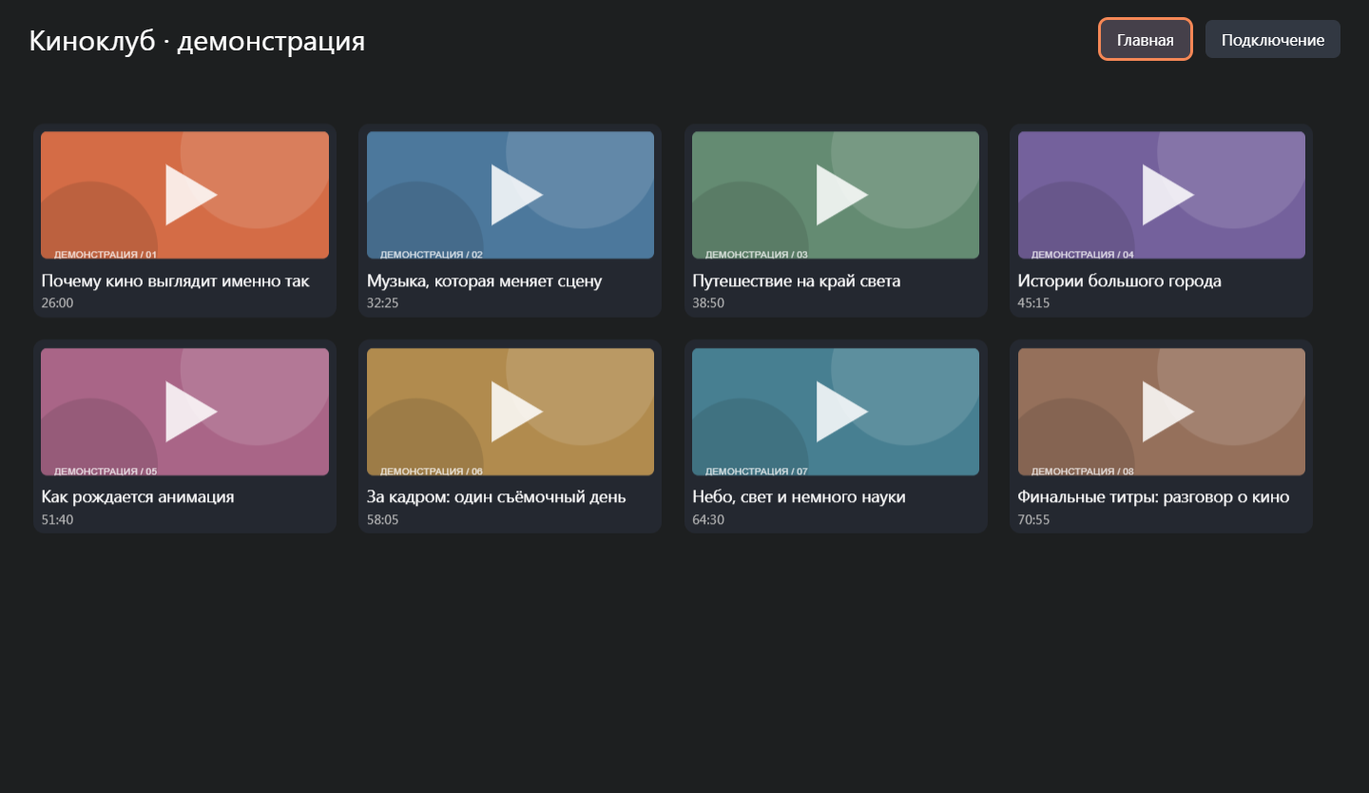
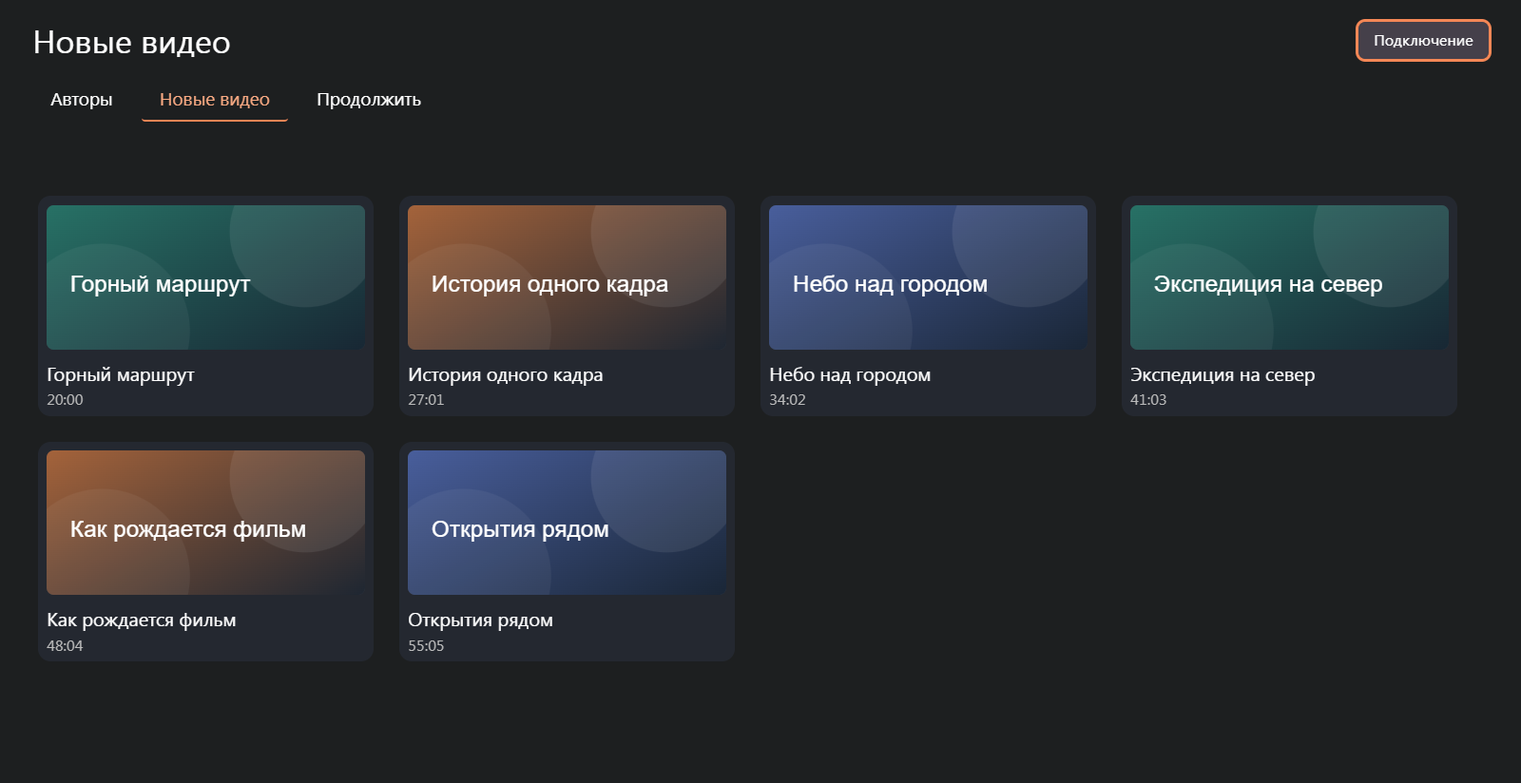
Исправлены авторы, обновлена навигация и добавлена поддержка нескольких ТВ

diff --git a/plugin/boosty.js b/plugin/boosty.js
@@ -67,7 +67,7 @@
             return request(root.XMLHttpRequest, base, L.Storage.get(tokenKey, ''), method, path, body, yes,
                 no || function (code) { L.Noty.show(message(code)); }, extra);
         }
-        function push(action, title, author) { L.Activity.push({component: 'boosty', action: action, title: title || 'Boosty', author: author}); }
+        function push(action, title, author, profile) { L.Activity.push({component: 'boosty', action: action, title: title || 'Boosty', author: author, profile: profile}); }
         function clock(seconds) {
             seconds = Math.max(0, Math.floor(Number(seconds) || 0));
             return Math.floor(seconds / 60) + ':' + ('0' + seconds % 60).slice(-2);
@@ -139,12 +139,15 @@
                 onBack: function () { L.Select.hide(); back(); }});
         }
         function Component(object) {
+            if (!object.action || object.action === 'home') { object.action = 'authors'; object.title = 'Авторы'; }
             var self = this, dead = false, requests = [], poll = null, last = null, next = null, loading = false, count = 0;
             var pageCursor = null, previous = [];
             var html = $('<div class="boosty-page"></div>'), head = $('<div class="boosty-head"></div>');
+            var tabs = $('<div class="boosty-tabs"></div>');
             var scroll = new L.Scroll({mask: true, over: true}), grid = $('<div class="boosty-grid"></div>');
+            var body = $('<div class="boosty-body"></div>');
             var note = $('<div class="boosty-note"></div>');
-            html.append(head).append(note).append(scroll.render()); scroll.append(grid); scroll.minus(head);
+            html.append(head).append(note).append(scroll.render()); scroll.append(body); body.append(grid); scroll.minus(head);
             function button(title, action, extra) {
                 var el = $('<div class="selector boosty-button"></div>').text(title);
                 if (extra) el.addClass(extra);
@@ -172,8 +175,9 @@
                 }));
                 restore();
             }
-            function card(title, subtitle, image, action) {
+            function card(title, subtitle, image, action, author) {
                 var el = $('<div class="selector boosty-card"></div>');
+                if (author) el.addClass('boosty-author');
                 var picture = $('<div class="boosty-picture"></div>').append($('<span></span>').text('B'));
                 if (image) {
                     var img = $('<img loading="lazy" alt="">').attr('src', image);
@@ -187,7 +191,7 @@
             function renderItems(data) {
                 data.items.forEach(function (item) {
                     if (object.action === 'authors') {
-                        card(item.title, 'Открыть видео автора', item.image_url, function () { push('posts', item.title, item.author_id); });
+                        card(item.title, item.description !== item.title ? item.description : '', item.image_url, function () { push('posts', item.title, item.author_id, item); }, true);
                     } else if (object.action === 'continue') {
                         card(item.title, 'Продолжить с ' + clock(item.position_seconds), item.image_url, function () { choose(item, restore); });
                     } else {
@@ -229,25 +233,41 @@
                 });
             }
             this.create = function () {
-                head.append($('<div class="boosty-heading"></div>').text(object.title || 'Boosty'));
-                head.append(button('Главная', function () { push('home'); }));
-                head.append(button('Подключение', function () { push('pair', 'Подключение Boosty'); }));
+                var top = $('<div class="boosty-top"></div>');
+                top.append($('<div class="boosty-heading"></div>').text(object.title || 'Boosty'));
+                top.append(button('Подключение', function () { push('pair', 'Подключение Boosty'); }, 'boosty-settings'));
+                [['authors', 'Авторы'], ['feed', 'Новые видео'], ['continue', 'Продолжить']].forEach(function (tab) {
+                    var selected = object.action === tab[0] || (object.action === 'posts' && tab[0] === 'authors');
+                    tabs.append(button(tab[1], function () { if (object.action !== tab[0]) push(tab[0], tab[1]); }, selected ? 'boosty-tab-active' : 'boosty-tab'));
+                });
+                head.append(top).append(tabs);
+                if (object.action === 'posts' && object.profile) {
+                    var profile = object.profile, cover = $('<div class="boosty-cover"></div>');
+                    if (profile.cover_url) {
+                        var coverImage = $('<img alt="">').attr('src', profile.cover_url);
+                        coverImage.on('error', function () { coverImage.remove(); }); cover.append(coverImage);
+                    }
+                    var caption = $('<div class="boosty-cover-caption"></div>');
+                    caption.append($('<div class="boosty-heading"></div>').text(profile.title));
+                    if (profile.description && profile.description !== profile.title) caption.append($('<div></div>').text(profile.description));
+                    cover.append(caption); body.prepend(cover);
+                }
                 if (!L.Storage.get(tokenKey, '') && object.action !== 'pair') {
                     note.text('Один раз привяжите телевизор. Вход в Boosty выполняется на компьютере.');
                     grid.append(button('Привязать телевизор', function () { push('pair', 'Подключение Boosty'); }));
                 } else if (object.action === 'pair') pair();
-                else if (!object.action || object.action === 'home') {
-                    [['continue', 'Продолжить'], ['feed', 'Новые видео'], ['authors', 'Авторы']].forEach(function (tab) {
-                        card(tab[1], '', null, function () { push(tab[0], tab[1]); });
-                    });
-                } else load();
+                else load();
                 return html;
             };
             this.start = function () {
                 if (dead) return;
                 L.Controller.add('content', {
                     toggle: function () { L.Controller.collectionSet(html); L.Controller.collectionFocus(last || grid.find('.selector').first(), html); },
-                    up: function () { if (root.Navigator.canmove('up')) root.Navigator.move('up'); else L.Controller.toggle('head'); },
+                    up: function () {
+                        if (root.Navigator.canmove('up')) root.Navigator.move('up');
+                        else if (grid.find('.focus').length) L.Controller.collectionFocus(tabs.find('.selector').first(), html);
+                        else L.Controller.toggle('head');
+                    },
                     down: function () {
                         if (!root.Navigator.canmove('down') && head.find('.focus').length && grid.find('.selector').length) {
                             L.Controller.collectionFocus(grid.find('.selector').first(), html);
@@ -264,7 +284,7 @@
             this.stop = function () {};
             this.destroy = function () { dead = true; clearTimeout(poll); requests.forEach(function (request) { if (request.cancel) request.cancel(); }); scroll.destroy(); html.remove(); };
         }
-        $('<style></style>').text('.boosty-page{height:100%;padding:1.2em 1.8em;box-sizing:border-box}.boosty-head{display:flex;align-items:center;gap:1em;margin-bottom:1em}.boosty-heading{font-size:1.8em;flex:1}.boosty-note{margin:.6em 0;color:#ccc;max-width:55em}.boosty-grid{display:flex;flex-wrap:wrap;gap:1.4em;padding:.6em .3em 4em}.boosty-card{width:calc(25% - 1.4em);min-width:12em;border-radius:.7em;padding:.5em;box-sizing:border-box;background:#242830}.boosty-picture{position:relative;background:#323842;height:8em;border-radius:.4em;overflow:hidden;display:flex;align-items:center;justify-content:center}.boosty-picture span{font-size:3em;color:#ed7447}.boosty-picture img{position:absolute;width:100%;height:100%;object-fit:cover}.boosty-title{margin-top:.6em;font-size:1.05em;line-height:1.3;max-height:3.9em;overflow:hidden}.boosty-subtitle{margin-top:.4em;color:#bbb;font-size:.85em}.boosty-button{padding:.7em 1em;background:#323842;border-radius:.45em}.boosty-page .selector.focus{outline:.2em solid #f48756;background:#45404a}.boosty-code{width:100%;font-size:4em;letter-spacing:.25em;color:#f48756}.boosty-more{width:100%;text-align:center}').appendTo('head');
+        $('<style></style>').text('.boosty-page{height:100%;padding:1.2em 1.8em;box-sizing:border-box}.boosty-head{margin-bottom:1em}.boosty-top{display:flex;align-items:center;gap:1em;margin-bottom:1em}.boosty-tabs{display:flex;gap:.6em;flex-wrap:wrap}.boosty-tabs .boosty-button{background:transparent;border-bottom:.15em solid transparent;border-radius:.2em}.boosty-tabs .boosty-tab-active{border-color:#f48756;color:#f9aa83}.boosty-settings{font-size:.85em}.boosty-card.boosty-author{background:transparent;aspect-ratio:1 / 1;display:flex;flex-direction:column;align-items:center;justify-content:center;text-align:center;padding:.7em}.boosty-author .boosty-picture{width:52%;height:auto;aspect-ratio:1 / 1;border-radius:50%;margin:0 auto .5em;flex-shrink:0;background:transparent}.boosty-author .boosty-title,.boosty-author .boosty-subtitle{text-shadow:0 1px 2px #000,0 0 5px #000}.boosty-author .boosty-subtitle{max-height:2.6em;overflow:hidden}.boosty-cover{position:relative;height:12em;margin:.6em .3em 1em;border-radius:.7em;overflow:hidden;background:#323842}.boosty-cover>img{width:100%;height:100%;object-fit:cover}.boosty-cover-caption{position:absolute;inset:0;display:flex;flex-direction:column;justify-content:flex-end;padding:1.2em;background:linear-gradient(transparent,rgba(0,0,0,.85))}.boosty-cover-caption .boosty-heading{flex:none;margin-bottom:.2em}.boosty-heading{font-size:1.8em;flex:1}.boosty-note{margin:.6em 0;color:#ccc;max-width:55em}.boosty-grid{display:flex;flex-wrap:wrap;gap:1.4em;padding:.6em .3em 4em}.boosty-card{width:calc(25% - 1.4em);min-width:12em;border-radius:.7em;padding:.5em;box-sizing:border-box;background:#242830}.boosty-picture{position:relative;background:#323842;height:8em;border-radius:.4em;overflow:hidden;display:flex;align-items:center;justify-content:center}.boosty-picture span{font-size:3em;color:#ed7447}.boosty-picture img{position:absolute;width:100%;height:100%;object-fit:cover}.boosty-title{margin-top:.6em;font-size:1.05em;line-height:1.3;max-height:3.9em;overflow:hidden}.boosty-subtitle{margin-top:.4em;color:#bbb;font-size:.85em}.boosty-button{padding:.7em 1em;background:#323842;border-radius:.45em}.boosty-page .selector.focus{outline:.2em solid #f48756;background:#45404a}.boosty-page .boosty-author.focus{outline:none;background:transparent}.boosty-author.focus .boosty-picture{box-shadow:0 0 0 .2em #f48756}.boosty-author.focus .boosty-title{color:#ffb38c}.boosty-code{width:100%;font-size:4em;letter-spacing:.25em;color:#f48756}.boosty-more{width:100%;text-align:center}@media(max-width:800px){.boosty-card{width:calc(50% - 1.4em);min-width:0}.boosty-page{padding:1em}.boosty-heading{font-size:1.4em}.boosty-tabs{gap:.2em}}').appendTo('head');
         L.Component.add('boosty', Component);
         var menu = $('<li class="menu__item selector"><div class="menu__ico"><svg viewBox="0 0 24 24"><path fill="currentColor" d="M5 3h8a5 5 0 0 1 3 9 5 5 0 0 1-3 9H5V3zm4 4v3h4a1.5 1.5 0 0 0 0-3H9zm0 7v3h4a1.5 1.5 0 0 0 0-3H9z"/></svg></div><div class="menu__text">Boosty</div></li>');
         menu.on('hover:enter', function () { push('home'); });

diff --git a/server/admin.html b/server/admin.html
@@ -6,7 +6,7 @@
 <p>Вход выполняется на компьютере. Телевизор получает доступ только к каталогу и воспроизведению.</p>
 <section><label for="key">Ключ администратора</label><input id="key" type="password" autocomplete="off" placeholder="Из закрытого файла администратора"><button id="check">Подключиться</button><p id="status" role="status">Ожидание подключения</p></section>
 <section><h2>1. Подключить аккаунт</h2><p>Предпочтительный способ — помощник <code>scripts/login.py</code>: он откроет официальный сайт Boosty. Пароль вводится только там.</p><p>Если агент подготовил файл сессии только для Boosty, выберите его ниже. Он передаётся вашему серверу и не включается в комплект переноса.</p><input id="session" type="file" accept="application/json,.json" aria-label="Файл сессии Boosty"><button id="import">Подключить аккаунт</button></section>
-<section><h2>2. Привязать телевизор</h2><p>Откройте раздел Boosty в Lampa и выберите «Привязать телевизор». Введите показанный код. Новая привязка заменит прежнюю.</p><input id="code" inputmode="numeric" pattern="[0-9]{6}" maxlength="6" aria-label="Шестизначный код ТВ"><button id="approve">Подтвердить</button><p id="pairs"></p></section>
+<section><h2>2. Привязать телевизор</h2><p>Откройте раздел Boosty в Lampa и выберите «Привязать телевизор». Введите показанный код. Новая привязка добавляет устройство. Ранее подключённые устройства сохраняют доступ.</p><input id="code" inputmode="numeric" pattern="[0-9]{6}" maxlength="6" aria-label="Шестизначный код ТВ"><button id="approve">Подтвердить</button><p id="pairs"></p></section>
 <p id="result" role="alert"></p>
 <script>
 'use strict';

diff --git a/tests/test_api.py b/tests/test_api.py
@@ -41,7 +41,8 @@ async def fixture(tmp_path):
                 controls["arrived"].set()
             await controls["release"].wait()
         if request.url.path == "/v1/user/subscriptions":
-            return httpx.Response(200, json={"data": [{"blog": {"blogUrl": "author", "title": "Author"}}], "total": 1})
+            blogs = controls.get("blogs", [{"blogUrl": "author", "title": "Author"}])
+            return httpx.Response(200, json={"data": [{"blog": b} for b in blogs], "total": len(blogs)})
         post = {"id": "post-1", "hasAccess": controls["access"], "title": "Film", "createdAt": 123,
                 "user": {"blogUrl": "author"}, "data": [{"id": "video-1", "type": "ok_video", "complete": True,
                 "title": "Film", "duration": 100, "playerUrls": [{"type": "full_hd", "url": "https://vd1.okcdn.ru/film?signature=private"}]}]}
@@ -117,6 +118,58 @@ async def test_access_checked_at_play_and_no_secrets_returned(fixture):
     controls["access"] = False
     response = await client.post("/boosty/v1/playbacks", json={"author_id": "author", "post_id": "post-1", "video_id": "video-1", "quality": "full_hd"})
     assert response.status_code == 403
+
+
+@pytest.mark.anyio
+async def test_author_identity_and_images_use_owner_fields(fixture):
+    svc, client, admin, controls, device = fixture
+    controls["blogs"] = [
+        {"blogUrl": "creator", "title": "Video essays", "owner": {"name": "Creator name", "avatarUrl": "https://images.boosty.to/avatar.jpg"}, "coverUrl": "https://images.boosty.to/cover.jpg"},
+        {"blogUrl": "legacy", "title": "Legacy", "owner": None},
+        {"blogUrl": "slug-only"},
+    ]
+    items = (await client.get("/boosty/v1/authors")).json()["items"]
+    assert items[0]["title"] == "Creator name"
+    assert items[0]["description"] == "Video essays"
+    for field, source in [("image_url", "avatar.jpg"), ("cover_url", "cover.jpg")]:
+        identifier = items[0][field].rsplit("/", 1)[1]
+        assert svc.images[identifier][0] == "https://images.boosty.to/" + source
+    assert items[1]["title"] == "Legacy" and items[1]["image_url"] is None
+    assert items[2]["title"] == "slug-only"
+
+
+@pytest.mark.anyio
+async def test_multiple_devices_keep_tokens_streams_and_shared_history(fixture):
+    from server.state import State
+    svc, first, admin, controls, device = fixture
+    first_play = await playback(first)
+    pairing = (await first.post("/boosty/v1/pairing", json={})).json()
+    assert (await admin.post("/admin/pairing/approve", json={"code": pairing["code"]})).status_code == 200
+    second_token = (await first.get("/boosty/v1/pairing/" + pairing["id"], headers={"X-Pair-Secret": pairing["secret"]})).json()["token"]
+    assert (await first.get("/boosty/v1/authors")).status_code == 200
+    async with httpx.AsyncClient(transport=first._transport, base_url=first.base_url, headers={"Authorization": "Bearer " + second_token}) as second:
+        second_play = await playback(second)
+        for player, item in [(first, first_play), (second, second_play)]:
+            response = await player.get(item["url"], headers={"Range": "bytes=100-199"})
+            assert response.status_code == 206 and len(response.content) == 100
+        assert (await second.delete("/boosty/v1/playbacks/" + first_play["playback_id"])).status_code == 200
+        assert (await first.head(first_play["url"])).status_code == 200
+        await playback(second)
+        assert (await second.head(second_play["url"])).status_code == 404
+        assert (await first.head(first_play["url"])).status_code == 200
+        progress = "/boosty/v1/progress/" + first_play["key"]
+        assert (await first.put(progress, json={"position_seconds": 42, "duration_seconds": 100})).status_code == 200
+        assert (await second.get("/boosty/v1/continue")).json()["items"][0]["position_seconds"] == 42
+        reopened = State(svc.settings.state_dir)
+        try:
+            assert reopened.device(first.headers["authorization"][7:]) == device
+            assert reopened.device(second_token) != device
+        finally:
+            reopened.close()
+        replacement = {"accessToken": "owner-b-access", "refreshToken": "refresh-b", "clientId": "client", "expiresAt": int((time.time() + 86400) * 1000)}
+        assert (await admin.post("/admin/session", json=replacement)).status_code == 200
+        assert (await first.get("/boosty/v1/authors")).status_code == 401
+        assert (await second.get("/boosty/v1/authors")).status_code == 401
 
 
 @pytest.mark.anyio

diff --git a/server/service.py b/server/service.py
@@ -87,8 +87,6 @@ class Service:
         if not matches or matches[0]["token"]:
             raise Problem("PAIRING_EXPIRED", 404)
         _, token = self.state.new_device()
-        self.playbacks.clear()
-        self.opened.clear()
         matches[0]["token"] = token
 
     def claim(self, identifier, secret):
@@ -164,8 +162,11 @@ class Service:
                 for row in result.get("data", []):
                     blog = row.get("blog", {})
                     if blog.get("blogUrl"):
-                        items.append({"author_id": blog["blogUrl"], "title": str(blog.get("title") or blog["blogUrl"])[:500],
-                                      "image_url": self.image_url(blog.get("avatarUrl"))})
+                        owner = blog.get("owner") or {}
+                        items.append({"author_id": blog["blogUrl"], "title": str(owner.get("name") or blog.get("title") or blog["blogUrl"])[:500],
+                                      "description": str(blog.get("title") or "")[:500],
+                                      "image_url": self.image_url(owner.get("avatarUrl")),
+                                      "cover_url": self.image_url(blog.get("coverUrl"))})
                 consumed = int(offset or 0) + len(result.get("data", []))
                 next_offset = consumed if result.get("data") and consumed < result.get("total", 0) else None
             else:
@@ -213,7 +214,8 @@ class Service:
         self.check_device(current)
         device = current[0]
         now = time.time()
-        self.playbacks.clear()
+        self.playbacks = {key: value for key, value in self.playbacks.items()
+                          if value["device"] != device and now - value["used"] <= 3600 and now - value["created"] <= 43200}
         identifier = secrets.token_urlsafe(32)
         self.playbacks[identifier] = {"device": device, "source": source, "video": video, "quality": quality,
             "created": now, "used": now, "identity": None, "lock": asyncio.Lock(), "generation": current[1]}

diff --git a/server/state.py b/server/state.py
@@ -88,7 +88,6 @@ class State:
         token = secrets.token_urlsafe(32)
         device = secrets.token_hex(8)
         with self.db:
-            self.db.execute("DELETE FROM devices")
             self.db.execute("INSERT INTO devices VALUES (?,?)", (device, hashlib.sha256(token.encode()).hexdigest()))
         return device, token
 

diff --git a/docs/ACCEPTANCE.md b/docs/ACCEPTANCE.md
@@ -29,3 +29,13 @@
 Документ обновляется по фактам проверки. Нельзя помечать пункт пройденным только по наличию кода, скриншота или HTTP 200.
 
 При установке исправлено описание tmpfs в Compose: строка с запятыми заключена в кавычки. CI теперь проверяет не только сборку, но и настоящий запуск Compose до healthy. На исходном ТВ версии, каталоги данных и статус установки пяти нужных приложений сохранены; Home и системные службы не менялись.
+
+## Итерация авторов и нескольких устройств — 25.10.2026
+
+- 21 серверный тест и 14 JavaScript-тестов пройдены. Новые проверки сначала воспроизвели прежние ошибки.
+- На реальном API подтверждены owner.name, owner.avatarUrl и coverUrl; в локальной браузерной Lampa загрузились три аватара, имена, описания и обложка автора.
+- Убраны промежуточные карточки разделов. Проверены вкладки и движение клавишами между сеткой и вкладками. Квадратные прозрачные ячейки измерены при ширине 1600 и 720 пикселей, горизонтального переполнения нет.
+- Два независимых клиента локального сервера привязаны одновременно; оба сохранили доступ к каталогу и своим реальным MP4-ссылкам, оба Range-запроса вернули 206 и ожидаемые 100 байт. Временные клиенты удалены после проверки; рабочая привязка ТВ не использовалась.
+- Автотест проверяет сохранение ключей после повторного открытия SQLite, отсутствие остановки чужого потока, независимый повторный запуск, общую историю и отзыв обоих устройств при смене аккаунта.
+- Пять критиков и арбитр: одна находка после дедупликации — устаревшее обещание отзыва старого ТВ. Исправление одобрено владельцем, подсказка и инструкция согласованы с новым поведением; security и silent-failure подтвердили закрытие. Дополнительная проверка регрессий перехода вверх выполнена.
+- По прямому указанию владельца ТВ в этой итерации не управлялся. Одновременный длительный просмотр на нескольких физических ТВ не проверялся; история одного ролика общая, последнее обновление побеждает.

diff --git a/docs/superpowers/plans/2026-10-25-authors-multiple-devices.md b/docs/superpowers/plans/2026-10-25-authors-multiple-devices.md
@@ -1,0 +1,9 @@
+# Авторы, навигация и несколько телевизоров
+
+Согласовано владельцем 25.10.2026. Проверки интерфейса только в локальном браузере, без управления ТВ и без отзыва действующей привязки.
+
+1. `server/service.py`, `tests/test_api.py`: имя автора из `blog.owner.name`, аватар из `blog.owner.avatarUrl`, описание из `blog.title`, обложка из `blog.coverUrl`. Сохранить fallback для неполных ответов и существующий защищённый прокси изображений. Проверить реальную форму искусственным ответом без личных данных.
+2. `server/state.py`, `server/service.py`, `tests/test_api.py`: новая привязка добавляет устройство; запуск заменяет только просмотр того же устройства, очищая истёкшие ссылки. Проверить два ключа и потока, сохранение после открытия БД заново, отзыв всех устройств при смене владельца. История общая: последнее обновление позиции побеждает. Схема SQLite не меняется.
+3. `plugin/boosty.js`, `tests/plugin.test.cjs`, `tests/lampa-fixture.cjs`: вместо меню-карточек вкладки Авторы / Новые видео / Продолжить; начальный экран Авторы, подключение отдельной кнопкой. Карточки авторов с круглыми аватарами и описанием; экран автора с обложкой и именем. Видео сохраняют превью, длительность, выбор качества и текущий плеер.
+4. Проверки последовательно: pytest, Node один worker, локальная браузерная Lampa с тестовыми данными/двумя изолированными клиентами. Проверить клавиши, возврат, неполные ответы, изображения, широкую и узкую область. Не привязывать тестовый браузер к действующему серверу до изменения одноустройственного режима.
+5. Независимая проверка изменений перед выпуском; находки панели — только после согласования плана. Обновить README, INSTALL, HANDOFF, ACCEPTANCE, CHANGELOG и обезличенные иллюстрации. Коммит по-русски, публикация после успешных проверок. Серверное обновление — в пределах действующего разрешения на Boost Lamp, с приватной копией состояния и проверкой сохранности существующих ключей; ТВ не управлять.

diff --git a/docs/INSTALL.md b/docs/INSTALL.md
@@ -31,7 +31,7 @@
 
 ## Цель и ограничения
 
-Это поток по запросу, без предварительного скачивания и перекодирования. Поддерживаются готовые MP4 Boosty; HLS/DASH-only пока не поддерживаются. Одна активная привязка ТВ. Для другого устройства выполните привязку заново; прежняя перестанет работать.
+Это поток по запросу, без предварительного скачивания и перекодирования. Поддерживаются готовые MP4 Boosty; HLS/DASH-only пока не поддерживаются. Можно привязать несколько телевизоров к одному аккаунту. Каждый новый код добавляет устройство и сохраняет прежние подключения. На каждом устройстве свой просмотр, история общая: последнее обновление позиции побеждает. Сервер допускает до четырёх одновременных HTTP-потоков. При смене аккаунта все прежние привязки отзываются.
 
 | Параметр | Что подставить |
 | --- | --- |
@@ -143,7 +143,7 @@ http://SERVER_IP:19118/boosty.js
 python scripts/manage.py --key-file private/admin.json approve 123456
 ```
 
-`123456` — пример, подставьте код с экрана. Подтверждение создаёт единственную активную привязку и отзывает старую. Вход Boosty и административный ключ на телевизор не переносятся. Позиция сохраняется сервером; внешний плеер получает только временный адрес видео.
+`123456` — пример, подставьте код с экрана. Подтверждение добавляет новое устройство; ранее подключённые телевизоры сохраняют доступ. Вход Boosty и административный ключ на телевизор не переносятся. Позиция сохраняется сервером; внешний плеер получает только временный адрес видео.
 
 ## 6. Приёмка на настоящем ТВ
 

diff --git a/docs/HANDOFF.md b/docs/HANDOFF.md
@@ -44,3 +44,11 @@
 ## Контекст по телевизору
 
 Projectivy и оптимизация телевизора — отдельная работа. Новый Home может занимать память одновременно со старым. Покупка Premium сама по себе не доказывает ускорение. Нельзя переносить готовый debloat-профиль с другого телевизора, отключать Яндекс вслепую или очищать данные нужных приложений. Сначала замеры в одинаковых условиях и обратимый эксперимент с отдельным разрешением.
+
+## Обновление авторов и нескольких ТВ
+
+Авторы открываются сразу, навигация представлена вкладками. Имя и аватар берутся из blog.owner, описание и обложка — из blog. Квадратная сетка авторов использует CSS aspect-ratio (Chromium/WebView 88+).
+
+Привязки теперь добавляются, а не заменяются. На каждом устройстве один активный просмотр; запуск на другом не отзывает его. История общая: последнее полученное обновление позиции побеждает. Смена аккаунта отзывает все прежние устройства. Схема SQLite не менялась; при обновлении сохранять volume. Ранее отозванные старой версией ключи автоматически не восстанавливаются — такое устройство нужно привязать заново один раз.
+
+По просьбе владельца новая итерация проверяется только в локальном браузере. Не подключайтесь к ТВ ради повторения проверки без нового запроса. Подробные результаты — в ACCEPTANCE.

diff --git a/docs/REVIEW.md b/docs/REVIEW.md
@@ -112,3 +112,7 @@ FIX_NOW: 2 · FIX_BEFORE_RELEASE: 7 · TECH_DEBT: 4 · ACCEPT_RISK: 0 · FALSE_P
 ## Дополнение после аппаратной установки
 
 На ТВ обнаружен геометрический тупик пульта: кнопка шапки справа не пересекается по горизонтали с неполным рядом карточек, поэтому штатный Navigator не находит движение вниз. Добавлены начальный фокус первой карточки и переход из шапки вниз при отсутствии геометрического соседа. Регрессионный тест сначала падал, после правки все 12 JavaScript-проверок прошли. Два независимых повторных критика (совместимость и регрессии) проверили узкий diff и не нашли обязательных исправлений. Пустая сетка использует штатный fallback collectionFocus к шапке; сохранённый фокус имеет приоритет.
+
+## Панель обновления авторов и нескольких устройств
+
+Scope: diff после d4430bc. Регрессии, стабильность и простота — без новых находок. SEC-003 и SILF-004 объединены: админка и INSTALL обещали отзыв прежней привязки вопреки новому контракту. Класс FIX_BEFORE_RELEASE, medium/high. Владелец одобрил замену подсказки; admin.html, README и оба места INSTALL исправлены. Оба критика подтвердили закрытие. Дополнительная проверка регрессий квадратных ячеек и fallback вверх к вкладкам — passed для подтверждённого WebView 113 и локального Chromium. Прежний отложенный долг не менялся.

diff --git a/README.md b/README.md
@@ -53,7 +53,7 @@
 
 ## Границы первой версии
 
-- Один аккаунт, одно привязанное устройство, один активный просмотр. Новая привязка отзывает прежнюю.
+- Один аккаунт Boosty, несколько подключённых телевизоров. Новая привязка сохраняет прежние; на каждом устройстве свой активный просмотр. История общая: при просмотре одного ролика на нескольких ТВ сохраняется последняя полученная позиция. До четырёх одновременных HTTP-потоков; доступность зависит от сети и сервера.
 - Видео Boosty типа `ok_video`, готовые MP4 и исходные варианты качества. HLS/DASH-only, прямые эфиры, аудиопосты, вложенные внешние плееры и офлайн-архив не поддерживаются.
 - Сервис рассчитан на доверенную локальную сеть. Административный порт доступен только на самом сервере или через SSH-туннель. Публикация сервиса в интернете не входит в эту конфигурацию.
 - Плагин не снимает ограничения подписки. Закрытые ролики доступны только при соответствующих правах аккаунта.

diff --git a/CHANGELOG.md b/CHANGELOG.md
@@ -1,5 +1,12 @@
 # Изменения
 
+## Обновление 25.10.2026 — авторы и несколько телевизоров
+
+- Исправлены имена и аватары авторов; добавлены описания и обложки.
+- Вкладки вместо промежуточного меню-карточек; квадратная сетка авторов без серых подложек, кольцо фокуса и контрастные подписи.
+- Несколько привязанных ТВ и независимые просмотры; история общая, существующие ключи сохраняются.
+- Проверки этой итерации выполнены в локальном браузере без управления ТВ.
+
 ## 0.1.0 — предварительная версия, 25.10.2026
 
 - Серверный просмотр доступных видео Boosty в Lampa: авторы, лента, продолжение, выбор исходного MP4 качества.
